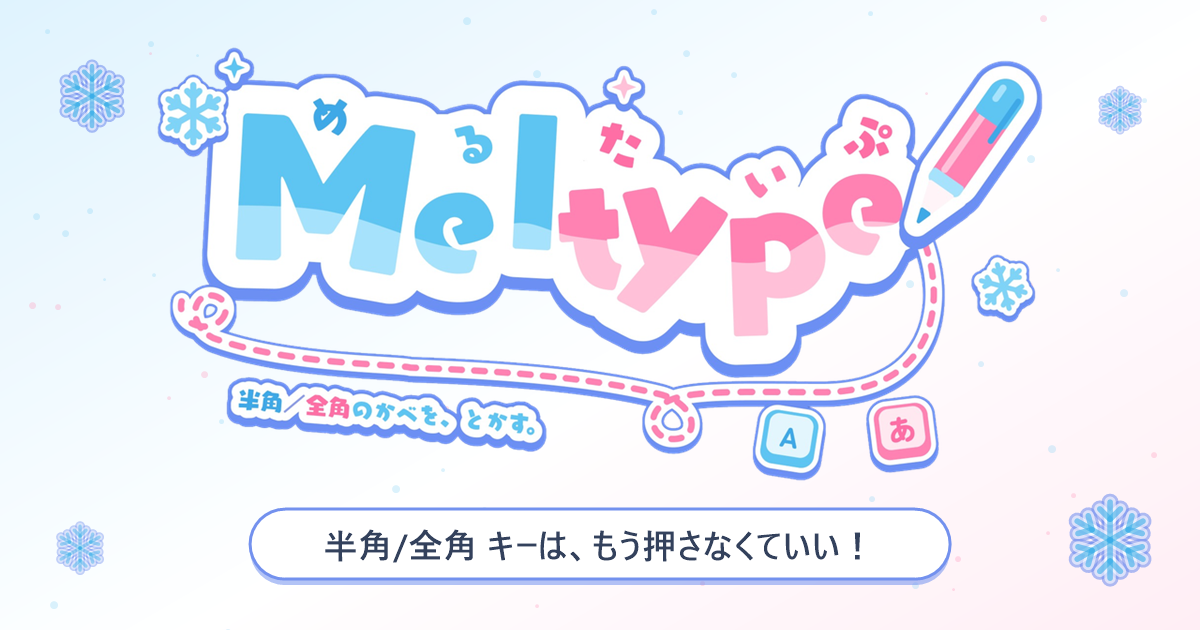
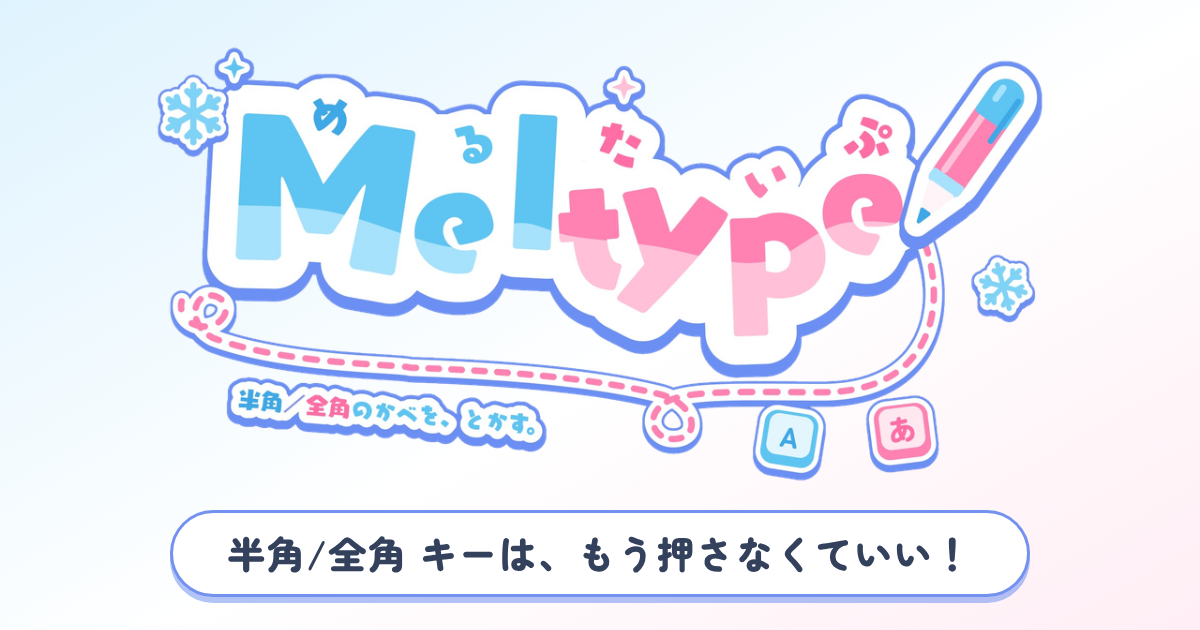
web: スマホの挙動・配置・フォント・リンクの画像を整える
- タップしたカードやボタンが浮いたまま残らないよう、浮き上がりはマウスで動かしているときだけにする
- Star History の画像に大きさを入れ、読み込んだときにページがずれないようにする
- 開発の資料へのリンクを上のカードと同じ 3 列にそろえる
- 報告のフォームの Turnstile を送信ボタンの上に並べ、幅をそろえる
- サイトの文字を丸ゴシック (Zen Maru Gothic) にする
- リンクの画像から雪の飾りを消し、文字を丸ゴシックにして作り直す (scripts/make-images.mjs)
- 寄付と協力者の欄の「自動で載せています」の文を消す

Claude-Session: https://claude.ai/code/session_01Amw8YBdgS4dKsHo1MQKZKY

diff --git a/web/public/assets/css/site.css b/web/public/assets/css/site.css
@@ -31,9 +31,9 @@
   --danger: #d9466f;
   --danger-soft: #ffe9ef;
   --header-bg: rgba(255, 255, 255, 0.82);
-  --font-head: "LINE Seed JP", "Noto Sans JP", system-ui, sans-serif;
-  --font-body: "Noto Sans JP", "LINE Seed JP", system-ui, -apple-system, "Segoe UI", sans-serif;
-  --font-mono: ui-monospace, "Cascadia Code", "SFMono-Regular", Consolas, "Noto Sans JP", monospace;
+  --font-head: "Zen Maru Gothic", "Hiragino Maru Gothic ProN", system-ui, sans-serif;
+  --font-body: "Zen Maru Gothic", "Hiragino Maru Gothic ProN", system-ui, -apple-system, "Segoe UI", sans-serif;
+  --font-mono: ui-monospace, "Cascadia Code", "SFMono-Regular", Consolas, "Zen Maru Gothic", monospace;
   --radius: 16px;
   --radius-s: 12px;
   --wrap: 1120px;
@@ -128,6 +128,7 @@ body {
   color: var(--ink);
   font-family: var(--font-body);
   font-size: 16px;
+  font-weight: 500;
   line-height: 1.85;
   letter-spacing: 0.02em;
   font-feature-settings: "palt" 0;
@@ -1747,14 +1748,49 @@ em {
   background: none;
 }
 
+/* 上のカード 3 枚と同じ幅の 3 列にそろえ、下の Star History との間をあける */
 .link-list {
-  display: flex;
-  flex-wrap: wrap;
-  gap: 8px 24px;
-  margin: 24px 0 0;
+  display: grid;
+  grid-template-columns: repeat(3, minmax(0, 1fr));
+  gap: 12px 24px;
+  margin: 24px 0 40px;
   padding: 0;
   list-style: none;
   font-size: 0.93rem;
+}
+
+.link-list a {
+  display: flex;
+  align-items: center;
+  justify-content: space-between;
+  gap: 8px;
+  height: 100%;
+  padding: 12px 18px;
+  background: var(--surface);
+  border: 1px dashed var(--line-strong);
+  border-radius: var(--radius-s);
+  font-weight: 700;
+  text-decoration: none;
+  transition: border-color 0.15s, color 0.15s;
+}
+
+.link-list a:hover {
+  border-style: solid;
+  border-color: var(--sky-deep);
+}
+
+.link-list .ic {
+  flex: none;
+  width: 16px;
+  height: 16px;
+  opacity: 0.7;
+}
+
+@media (max-width: 860px) {
+  .link-list {
+    grid-template-columns: minmax(0, 1fr);
+    gap: 8px;
+  }
 }
 
 .star-history {
@@ -1768,6 +1804,9 @@ em {
 
 .star-history img {
   display: block;
+  width: 100%;
+  max-width: 800px;
+  height: auto;
   margin: 0 auto;
   border-radius: 10px;
 }
@@ -2370,6 +2409,47 @@ em {
   color: var(--muted);
 }
 
+/* Turnstile (幅 300px) と送信ボタンを右に縦に並べ、幅をそろえる */
+.submit-actions {
+  display: flex;
+  flex-direction: column;
+  align-items: stretch;
+  gap: 12px;
+  width: 300px;
+  flex: none;
+}
+
+.submit-actions .cf-turnstile {
+  min-height: 65px;
+  display: flex;
+  justify-content: center;
+}
+
+.submit-actions .btn {
+  justify-content: center;
+}
+
+@media (max-width: 640px) {
+  .submit-bar {
+    flex-direction: column;
+    align-items: stretch;
+    padding: 20px 18px;
+  }
+
+  .submit-bar p {
+    flex: none;
+  }
+
+  .submit-actions {
+    width: 100%;
+    align-items: center;
+  }
+
+  .submit-actions .btn {
+    width: 100%;
+  }
+}
+
 .form-status {
   margin-top: 16px;
 }
@@ -2659,6 +2739,7 @@ em {
   position: sticky;
   top: calc(var(--header-h) + 16px);
   max-height: calc(100vh - var(--header-h) - 32px);
+  max-height: calc(100dvh - var(--header-h) - 32px);
   overflow: auto;
   background: var(--surface);
   border: 1px solid var(--line);
@@ -3089,21 +3170,22 @@ em {
   transition: border-color 0.2s, transform 0.3s cubic-bezier(0.22, 1, 0.36, 1), box-shadow 0.3s;
 }
 
-/* 浮き上がりはマウスのときだけ。タッチでは押したあとに浮いたまま残るので付けない */
-@media (hover: hover) and (pointer: fine) {
-  .btn:hover {
+/* 浮き上がりはマウスで動かしているときだけ (html.is-mouse は common.js が付ける)。
+   タッチでは押したあとに :hover が残り、カードが浮いたままになるので付けない */
+@media (hover: hover) {
+  .is-mouse .btn:hover {
     transform: translateY(-1px);
     box-shadow: 0 8px 20px rgba(51, 65, 92, 0.14);
   }
 
-  .btn:active {
+  .is-mouse .btn:active {
     transform: scale(0.97);
   }
 
-  .link-card:hover,
-  .person:hover,
-  .feat:hover,
-  .os-tab:hover {
+  .is-mouse .link-card:hover,
+  .is-mouse .person:hover,
+  .is-mouse .feat:hover,
+  .is-mouse .os-tab:hover {
     transform: translateY(-3px);
     box-shadow: 0 12px 28px rgba(51, 65, 92, 0.1);
   }

diff --git a/web/public/index.html b/web/public/index.html
@@ -25,7 +25,7 @@
   <link rel="apple-touch-icon" href="/apple-touch-icon.png">
   <link rel="preconnect" href="https://fonts.googleapis.com">
   <link rel="preconnect" href="https://fonts.gstatic.com" crossorigin>
-  <link rel="stylesheet" href="https://fonts.googleapis.com/css2?family=LINE+Seed+JP:wght@400;700;800&family=Noto+Sans+JP:wght@400;500;700&display=swap">
+  <link rel="stylesheet" href="https://fonts.googleapis.com/css2?family=Zen+Maru+Gothic:wght@500;700;900&display=swap">
   <link rel="stylesheet" href="/assets/css/site.css">
   <script type="module" src="/assets/js/site.js"></script>
 </head>
@@ -526,7 +526,6 @@
             <li><a href="https://github.com/Kuraido1018" title="@Kuraido1018"><img src="https://github.com/Kuraido1018.png?size=120" alt="@Kuraido1018" width="60" height="60" loading="lazy"></a></li>
             <li><a href="https://github.com/overdozer1124" title="@overdozer1124"><img src="https://github.com/overdozer1124.png?size=120" alt="@overdozer1124" width="60" height="60" loading="lazy"></a></li>
           </ul>
-          <p class="small">名前を公開して応援してくださった方を、README から自動で載せています。</p>
           <a class="btn btn-pink" href="https://github.com/sponsors/yksr-melt"><svg class="ic"><use href="/assets/img/icons.svg#i-heart"/></svg>GitHub Sponsors で応援する</a>
         </div>
 
@@ -535,7 +534,6 @@
           <ul class="avatars is-contributors" data-contributors>
             <li class="fallback"><a href="https://github.com/yksr-melt/Meltype/graphs/contributors"><img src="https://contrib.rocks/image?repo=yksr-melt/Meltype&amp;max=60" alt="コードで協力してくださった方々" loading="lazy"></a></li>
           </ul>
-          <p class="small">GitHub の記録から自動で載せています。<a href="https://github.com/yksr-melt/Meltype/graphs/contributors">GitHub で見る</a></p>
         </div>
       </div>
     </section>
@@ -559,15 +557,15 @@
           </a>
         </div>
         <ul class="link-list">
-          <li><a href="https://github.com/yksr-melt/Meltype/blob/main/docs/DEVELOPMENT.md">ビルド・仕組み (DEVELOPMENT.md)</a></li>
-          <li><a href="https://github.com/yksr-melt/Meltype/blob/main/docs/MAC-CLI.md">Mac の CLI ビルド</a></li>
-          <li><a href="https://github.com/yksr-melt/Meltype/blob/main/docs/WSL.md">WSL / Linux の CLI ビルド</a></li>
+          <li><a href="https://github.com/yksr-melt/Meltype/blob/main/docs/DEVELOPMENT.md">ビルド・仕組み (DEVELOPMENT.md)<svg class="ic"><use href="/assets/img/icons.svg#i-external"/></svg></a></li>
+          <li><a href="https://github.com/yksr-melt/Meltype/blob/main/docs/MAC-CLI.md">Mac の CLI ビルド<svg class="ic"><use href="/assets/img/icons.svg#i-external"/></svg></a></li>
+          <li><a href="https://github.com/yksr-melt/Meltype/blob/main/docs/WSL.md">WSL / Linux の CLI ビルド<svg class="ic"><use href="/assets/img/icons.svg#i-external"/></svg></a></li>
         </ul>
         <figure class="star-history">
           <a href="https://www.star-history.com/?repos=yksr-melt%2FMeltype&amp;type=date&amp;legend=top-left">
             <picture>
               <source media="(prefers-color-scheme: dark)" srcset="https://api.star-history.com/chart?repos=yksr-melt/Meltype&amp;type=date&amp;theme=dark&amp;legend=top-left">
-              <img src="https://api.star-history.com/chart?repos=yksr-melt/Meltype&amp;type=date&amp;legend=top-left" alt="GitHub の Star の数の移り変わり" loading="lazy">
+              <img src="https://api.star-history.com/chart?repos=yksr-melt/Meltype&amp;type=date&amp;legend=top-left" alt="GitHub の Star の数の移り変わり" width="800" height="533" loading="lazy">
             </picture>
           </a>
           <figcaption>Star History</figcaption>

diff --git a/web/public/report/index.html b/web/public/report/index.html
@@ -21,7 +21,7 @@
   <link rel="apple-touch-icon" href="/apple-touch-icon.png">
   <link rel="preconnect" href="https://fonts.googleapis.com">
   <link rel="preconnect" href="https://fonts.gstatic.com" crossorigin>
-  <link rel="stylesheet" href="https://fonts.googleapis.com/css2?family=LINE+Seed+JP:wght@400;700;800&family=Noto+Sans+JP:wght@400;500;700&display=swap">
+  <link rel="stylesheet" href="https://fonts.googleapis.com/css2?family=Zen+Maru+Gothic:wght@500;700;900&display=swap">
   <link rel="stylesheet" href="/assets/css/site.css">
   <script type="module" src="/assets/js/report.js"></script>
   <script src="https://challenges.cloudflare.com/turnstile/v0/api.js" async defer></script>
@@ -118,13 +118,14 @@
             <input id="website" name="website" type="text" tabindex="-1" autocomplete="off" data-trap>
           </div>
 
-          <div class="cf-turnstile" data-sitekey="" data-action="report" data-turnstile></div>
-
           <div class="submit-bar">
             <p>送った内容と添付は、Meltype のメンテナーだけが見ます。添付は 30 日、報告は 180 日たつと消します。GitHub の Issue にするときは、連絡先・ログ・実行環境を外して載せます。スパム対策として、送れる回数の制限と Cloudflare Turnstile を使っています。返事がほしいときは「連絡先」を書いてください。</p>
-            <button class="btn btn-pink btn-large" type="submit" data-submit>
-              <svg class="ic"><use href="/assets/img/icons.svg#i-arrow"/></svg>送信する
-            </button>
+            <div class="submit-actions">
+              <div class="cf-turnstile" data-sitekey="" data-action="report" data-turnstile></div>
+              <button class="btn btn-pink btn-large" type="submit" data-submit>
+                <svg class="ic"><use href="/assets/img/icons.svg#i-arrow"/></svg>送信する
+              </button>
+            </div>
           </div>
           <div class="form-status" role="status" aria-live="polite" data-status></div>
         </div>

diff --git a/web/scripts/og.html b/web/scripts/og.html
@@ -1,0 +1,49 @@
+<!-- SPDX-License-Identifier: GPL-3.0-or-later -->
+<!-- Copyright (C) 2026 Konayukiw -->
+<!-- リンクを貼ったときの画像 (public/og.png) の元。make-images.mjs が 1200x630 で撮る -->
+<!doctype html>
+<html lang="ja">
+<head>
+<meta charset="utf-8">
+<link rel="stylesheet" href="https://fonts.googleapis.com/css2?family=Zen+Maru+Gothic:wght@700;900&display=block">
+<style>
+  html, body {
+    margin: 0;
+    width: 1200px;
+    height: 630px;
+    overflow: hidden;
+  }
+
+  body {
+    display: flex;
+    flex-direction: column;
+    align-items: center;
+    background: linear-gradient(150deg, #dff3fe 0%, #ffffff 55%, #ffeef5 100%);
+    font-family: "Zen Maru Gothic", sans-serif;
+  }
+
+  .logo {
+    width: 900px;
+    height: 448px;
+    margin-top: 40px;
+  }
+
+  .catch {
+    margin: 22px 0 0;
+    padding: 12px 54px 14px;
+    background: #fff;
+    border: 3px solid #7391ee;
+    border-radius: 999px;
+    box-shadow: 0 6px 0 rgba(115, 145, 238, 0.55);
+    color: #33415c;
+    font-size: 38px;
+    font-weight: 900;
+    letter-spacing: 0.04em;
+  }
+</style>
+</head>
+<body>
+  <img class="logo" src="../public/assets/img/logo.png" alt="">
+  <p class="catch">半角/全角 キーは、もう押さなくていい！</p>
+</body>
+</html>

diff --git a/web/public/assets/js/common.js b/web/public/assets/js/common.js
@@ -79,7 +79,18 @@ export function initCopyButtons(root = document) {
   });
 }
 
+// いま使っているのがマウスかタッチかを html の .is-mouse で示す。
+// (hover: hover) はマウスもつながるスマホ・タブレットでも当てはまり、タップしたカードが浮いたまま残るため、
+// 浮き上がりはマウスで動かしているあいだだけにする。
+function trackPointer() {
+  const root = document.documentElement;
+  const set = (event) => root.classList.toggle("is-mouse", event.pointerType === "mouse");
+  window.addEventListener("pointermove", set, { passive: true });
+  window.addEventListener("pointerdown", set, { passive: true });
+}
+
 export function initHeader() {
+  trackPointer();
   const header = document.querySelector("[data-header]");
   const toggle = document.querySelector("[data-nav-toggle]");
   const nav = document.querySelector("[data-nav]");

diff --git a/web/public/dashboard/index.html b/web/public/dashboard/index.html
@@ -12,7 +12,7 @@
   <link rel="icon" href="/favicon.svg" type="image/svg+xml">
   <link rel="preconnect" href="https://fonts.googleapis.com">
   <link rel="preconnect" href="https://fonts.gstatic.com" crossorigin>
-  <link rel="stylesheet" href="https://fonts.googleapis.com/css2?family=LINE+Seed+JP:wght@400;700;800&family=Noto+Sans+JP:wght@400;500;700&display=swap">
+  <link rel="stylesheet" href="https://fonts.googleapis.com/css2?family=Zen+Maru+Gothic:wght@500;700;900&display=swap">
   <link rel="stylesheet" href="/assets/css/site.css">
   <script type="module" src="/assets/js/dashboard.js"></script>
 </head>

diff --git a/web/public/404.html b/web/public/404.html
@@ -12,7 +12,7 @@
   <link rel="icon" href="/favicon.svg" type="image/svg+xml">
   <link rel="preconnect" href="https://fonts.googleapis.com">
   <link rel="preconnect" href="https://fonts.gstatic.com" crossorigin>
-  <link rel="stylesheet" href="https://fonts.googleapis.com/css2?family=LINE+Seed+JP:wght@400;700;800&family=Noto+Sans+JP:wght@400;500;700&display=swap">
+  <link rel="stylesheet" href="https://fonts.googleapis.com/css2?family=Zen+Maru+Gothic:wght@500;700;900&display=swap">
   <link rel="stylesheet" href="/assets/css/site.css">
 </head>
 <body>

diff --git a/web/README.md b/web/README.md
@@ -14,6 +14,17 @@ npm test
 
 `npm test` は D1 の代わりに `node:sqlite` を使うので、Node 22.13 以降で動かしてください (CI は Node 24)。`.dev.vars.example` には手元用の値が入っています。TurnstilehaCloudflareのテスト用キーで、テスト用キーの hostname は `example.com` になるので `TURNSTILE_HOSTNAMES` は空にしてあります。`DASHBOARD_DEV_BYPASS=1` のときは、localhostからのダッシュボードだけアクセス確認を飛ばします。
 
+## 画像を作り直す
+
+リンクを貼ったときの画像 (`public/og.png`) は `scripts/og.html` をブラウザーで 1200x630 に描いて作ります。文字は Google Fonts の Zen Maru Gothic なので、ネットにつながった状態で実行してください。
+
+```bash
+npm i --no-save playwright-core
+node scripts/make-images.mjs
+```
+
+Chrome / Edge / Chromium が見つからないときは `CHROMIUM_PATH` に場所を入れてください。`logo-small.png` と `apple-touch-icon.png` は Windows の PowerShell で `scripts/make-images.ps1` を実行して作ります。
+
 ## デプロイ
 
 初回:
